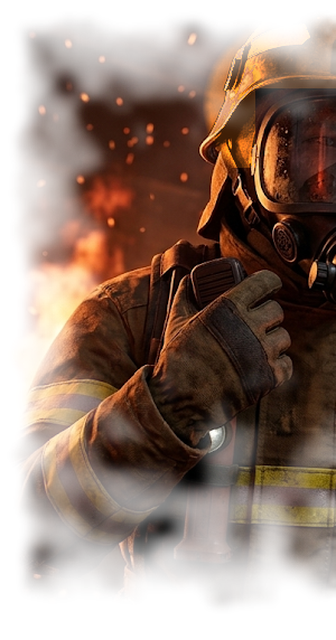
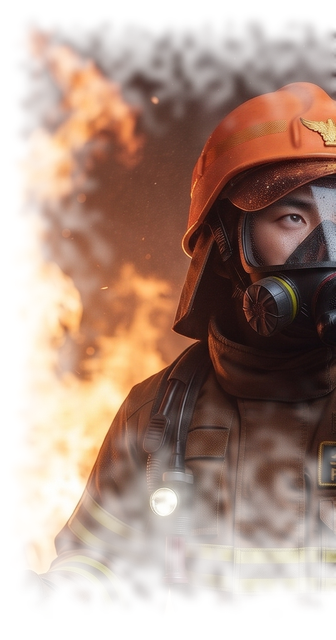
구조대 무전 그림을 사용자 제공 구조대원 그림으로 바꿈
무전 장면의 말하는 사람 그림(crew_rescue)과 조장의 판단 장면 얼굴 반쪽(half_rescue).
다른 대원 그림과 같은 방식(가장자리 먹물 번짐)으로 만들고, 만드는 도구에 rescue 모드를 더했다.

diff --git a/tools/prep_radio_art.py b/tools/prep_radio_art.py
@@ -4,6 +4,9 @@
 #   art/portraits/crew_command.png        — 현장지휘관 (지휘관이 거는 무전)
 #   art/portraits/half_fire·rescue·ems.png — 조장의 판단 장면: 얼굴의 반쪽만 (프로스트펑크 독백 방식, 사용자 예시 그림)
 #   art/ui/ink_blot.png — 가운데가 불투명하고 가장자리가 번진 검은 얼룩 (프로스트펑크 사건 창 방식)
+# 구조대원 그림만 따로 (2026-11-25 사용자 제공 '구조대원.png' — 주황 헬멧에 무전기를 든 모습):
+#   python tools/prep_radio_art.py rescue <구조대원 그림> <출력 폴더 art>
+#   art/portraits/crew_rescue.png · half_rescue.png 를 그 그림으로 바꾼다 (헬멧이 이미 주황이라 물들이지 않는다)
 # 필요: pillow, numpy
 import os
 import sys
@@ -19,6 +22,9 @@ CREW_HELMET = (232, 0, 468, 150)
 # 헬멧 색 (data/art.json helmet_color, 2026-11-11 사용자 결정). None = 그림 그대로(검정)
 KINDS = {"fire": None, "rescue": (255, 122, 26), "ems": (238, 238, 238)}
 SIZE = 640
+# 구조대원 그림(2048×2048)에서 쓸 영역 (다른 대원 그림과 같은 가로세로 비)과 얼굴 가운데 세로선
+RESCUE_BOX = (250, 0, 1950, 1410)
+RESCUE_FACE_X = 1200
 
 
 def ink_mask(w: int, h: int, seed: int, cut_right: bool = False) -> np.ndarray:
@@ -99,6 +105,18 @@ def portraits(crew_src: str, cmd_src: str, out_dir: str) -> None:
     save(half, ink_mask(half.shape[1], half.shape[0], 37, True), os.path.join(out_dir, "portraits", "half_command.png"), SIZE)
 
 
+def rescue_portrait(src: str, out_dir: str) -> None:
+    """구조대원 그림 한 장으로 무전 장면 그림과 판단 장면의 얼굴 반쪽을 만든다 (번짐 무늬는 다른 대원 그림과 같은 씨앗)"""
+    a = np.array(Image.open(src).convert("RGB")).astype(np.float32)
+    x0, y0, x1, y1 = RESCUE_BOX
+    part = a[y0:y1, x0:x1]
+    save(part, ink_mask(part.shape[1], part.shape[0], 11), os.path.join(out_dir, "portraits", "crew_rescue.png"), SIZE)
+    # 반쪽 그림의 가로세로 비는 다른 대원 그림과 같게 (300 : 572)
+    half_w = round((y1 - y0) * 300.0 / 572.0)
+    half = a[y0:y1, max(0, RESCUE_FACE_X - half_w):RESCUE_FACE_X]
+    save(half, ink_mask(half.shape[1], half.shape[0], 23, True), os.path.join(out_dir, "portraits", "half_rescue.png"), SIZE)
+
+
 def ink_blot(out_dir: str, w: int = 1400, h: int = 760, seed: int = 7) -> None:
     rng = np.random.default_rng(seed)
     yy, xx = np.mgrid[0:h, 0:w].astype(np.float32)
@@ -148,5 +166,8 @@ def ink_blot(out_dir: str, w: int = 1400, h: int = 760, seed: int = 7) -> None:
 
 
 if __name__ == "__main__":
-    portraits(sys.argv[1], sys.argv[2], sys.argv[3])
-    ink_blot(sys.argv[3])
+    if sys.argv[1] == "rescue":
+        rescue_portrait(sys.argv[2], sys.argv[3])
+    else:
+        portraits(sys.argv[1], sys.argv[2], sys.argv[3])
+        ink_blot(sys.argv[3])

diff --git a/docs/decisions.md b/docs/decisions.md
@@ -242,3 +242,4 @@
 | 2026-11-25 | 사용자 결정 (추천안 ①~④, ③은 가) | 열기에 막힌 철수 | ① 호스를 거두며 나오다 열기에 막히면 수관을 그 자리에 놓고 회수를 멈춘다 (긴급 철수와 같은 처리, 무전 "열기로 호스 회수 중단") ② 물러날 곳은 뜨거운 칸(위험 상한 이상)을 밟지 않고 닿는 식은 칸에서 고르고, 없으면 닿는 곳 중 뚜렷이 덜 뜨거운 칸(retreat_cooler_ratio 0.5)에서 버틴다. 한 걸음도 못 떼는데 선 칸이 위험하면 예전처럼 열기를 뚫고 나간다 ③ 철수 지시를 기억했다가(SafetySystem.withdrawing) 길의 모든 칸이 위험 상한의 0.8(path_reopen_heat_ratio) 아래로 식으면 스스로 다시 나오며 "퇴로 확보, 철수 재개"를 보고한다. 처음 가려던 곳이 막혀 있고 다른 열린 출구가 식어 있으면 그리로 나온다. 새 지시(이동·임무·층 이동·방수)를 받으면 잊는다 ④ 놓인 관창으로 가다(교체 뒤 재진입·교대조 인수) 열기에 막히면 수관을 놓아 두고 "화염·열기로 관창 쪽 진입 불가 — 물러나 대기, 지시 바람"을 보고한다 — 다시 시도하지 않는다 | 튜토리얼 자동 진행에서 철수하던 구조 분대가 쓰러졌다: 호스 회수가 1초마다 불난 거실 쪽으로 다시 길을 잡아 물러나지 못했고, 물러날 곳은 걸음 수만 보고 불 건너 현관 밖을 골라 매 틱 막혔고(뒤쪽 복도·방에 식은 칸이 200칸 넘게 있었다), 180초 뒤 회수를 그만두면서 철수 지시도 잊었다. 지휘관이 내린 철수는 길이 열리면 이어지는 것이 맞고(Door Kickers·EMERGENCY 의 명령 큐와 같다), 놓인 관창으로 다시 들어가는 것은 진입이므로 지휘관이 정한다 |
 | 2026-11-25 | 사용자 보고 → 승인 | 화면을 바꿔도 대원 방향·자리가 같게 | 대원 그림이 보는 방향 기억을 화면 겹(FloorLayer)마다 두지 않고 입체 화면(IsoView)의 한 사전을 모든 겹이 같이 쓴다. 걷는 대원·지휘관의 방향은 어느 겹이 그리든·그 층이 보이든 상관없이 IsoView 가 매 프레임 적는다 | 외부 화면은 지상층 겹이, 내부 화면은 색 겹이 대원을 그리는데 방향 기억이 겹마다 따로였고 그 겹이 그리는 동안 걸은 것만 적었다 — 내부 화면으로 들어가면 서 있던 대원이 모두 기본 방향으로 돌아섰고, 내부 화면을 보는 동안 걸은 대원은 외부 화면에서 옛 방향이었다. 조장 방향을 기준으로 서는 조원(호스 끼고 걷기 2번·운반·잔불 정리)은 자리까지 달라졌다 |
 | 2026-11-25 | 사용자 결정 (추천안 가) | 외부 ↔ 내부 화면을 오갈 때 카메라 (2026-11-14 '내부 화면의 화면 맞춤'을 대체) | 배율·위치를 그대로 둔다 — 같은 자리에서 벽만 걷어 낸 것처럼. 위층은 외부 화면에서는 외벽의 그 층 높이에, 내부 화면에서는 땅 높이에 그리므로 그만큼만 카메라를 옮겨 그 층이 화면 제자리에 있게 한다. 화면에 맞추는 것은 층 수 단추(1·2·3개 층)를 누를 때만. 내부 화면 안에서 층을 바꿀 때는 전과 같다(배율 그대로, 그 층으로 이동). 내부 화면에서 외부 최소 배율(0.5)보다 더 축소한 채 나오면 0.5로 맞춘다 | 사용자: 오갈 때 줌이 달라지지 않고 고정되면 좋겠다. 전에는 들어갈 때 고른 층에 꽉 차게 맞추고 나올 때 외부 카메라를 되돌려, 오갈 때마다 배율이 바뀌어 보던 대원·차량을 놓쳤다. 심즈·XCOM·Door Kickers 도 벽을 걷거나 층을 바꿀 때 카메라는 그대로이고 확대는 휠로만 한다 |
+| 2026-11-25 | 사용자 지시 | 구조대 무전 그림 | 사용자가 넣은 '구조대원.png'(주황 헬멧에 무전기를 든 모습)로 구조대의 말하는 사람 그림(crew_rescue)과 조장의 판단 장면 얼굴 반쪽(half_rescue)을 바꿈. 다른 대원 그림과 같은 방식(가장자리 먹물 번짐, 같은 크기·비율). 헬멧이 이미 주황이라 물들이지 않는다. 분대 정보창의 작은 그림도 같은 파일을 쓰므로 함께 바뀐다 | 전에는 진압대원 그림의 헬멧만 주황으로 물들인 것이었다 |

diff --git a/docs/progress.md b/docs/progress.md
@@ -162,3 +162,4 @@
 | 2026-11-25 | 열기에 막힌 철수 (튜토리얼에서 철수하던 구조 분대가 쓰러지던 것) | scripts/simulation/crew_condition_system.gd(_cool_cell·_search_cool·_cool_path·route_clear·way_reopened·note_blocked·_settled, _retreat 다시 찾기 간격), scripts/simulation/suppression/water_system.gd(leave_for_heat, cancel_fetch 제한 시간 초기화), scripts/command/safety_system.gd(withdrawing·step_withdrawing·_way_out·forget_return), scripts/simulation/sim_world.gd(_on_heat_stop·_has_other_duty), scripts/units/unit_system.gd(route_along), scripts/command/command_system.gd·tactical_system.gd·move_command.gd, scripts/evaluation/sim_event_log.gd(hose_left_heat·withdraw_resume), data/units/firefighter.json(retreat_cooler_ratio·path_reopen_heat_ratio), tests/test_withdraw_heat.gd(새 6), tests/ui_tour.gd | 새 6 + 관련 8개 파일 58 통과(test_crew_and_vision 11·hose_leave 9·crew_trapped 3·safety 8·tactical 6·mission_done 9·interior 6·command 6). 튜토리얼 자동 진행 3회(현장 25분): 쓰러짐 0, 스크립트 오류 0 — 세 번 모두 구조1이 호스를 거두며 철수하는 흐름은 나오지 않았고(2층 계단실에 끝까지 서 있는 흐름), 대신 진압1이 공기호흡기 교체로 나오다 열기에 막혀 복도로 물러나 고립 보고 뒤 끝까지 대기했다(거실 불이 25분까지 안 꺼짐). 원인: ① 호스 회수가 1초마다 불 쪽으로 다시 길을 잡음 ② 물러날 곳을 걸음 수만 보고 골라 불 건너 현관 밖을 고름 ③ 180초 뒤 회수를 그만두며 철수도 잊음. 남은 것: 전체 테스트는 이 PC에서 아직 안 돌림(사용자: 나중에) · 구조1이 2층 계단실에 끝까지 서 있는 흐름(호스 길이 한도로 짐작, 확인 안 함) · 진압1이 1층 거실을 900초 방수해도 못 끄는 것 · 게임 화면에서 직접 확인 |
 | 2026-11-25 | 외부 ↔ 내부 화면을 오가면 대원 방향·자리가 달라지던 것 | scripts/ui/iso_view.gd(_facing·update_facing), scripts/ui/building/floor_layer.gd(share_facing), tests/test_view_facing.gd(새 3) | 새 3 + test_crew_draw_spots 4·door_layout 2·door_stack 11·hose_draw 17 통과, ui_smoke(창) 통과 160·실패 0·스크립트 오류 0. 고치기 전 재현: 13명 중 외부→내부 13명, 내부에서 걸은 뒤→외부 13명이 다른 방향 / 고친 뒤 0명. 남은 것: 게임 화면에서 직접 확인 · 겹마다 따로 가진 다른 기억(_fire_rooms 마지막으로 불을 본 방 등)은 살펴보지 않음 |
 | 2026-11-25 | 외부 ↔ 내부 화면을 오갈 때 카메라 고정 | scripts/world.gd(_fit_view_change·_shell_shift, _exterior_cam 지움), tests/ui_smoke.gd(확인 5개) | ui_smoke(창) 통과 164·실패 0·스크립트 오류 0, test_split_view 5·test_cutaway 11 통과. 1층: 배율·위치 그대로 / 2층: 배율 그대로, 외벽의 층 높이만큼만 카메라가 내려가 그 층이 화면 제자리 / 층 수 단추를 누르면 그때 맞춤. 남은 것: 게임 화면에서 직접 확인 · 고른 층이 왼쪽 정보창에 가려질 수 있음(가려지면 층 수 단추나 화면 이동으로) · 고층 건물(15·25층)에서 위층을 눌러 들어갈 때는 자동 점검하지 않음 |
+| 2026-11-25 | 구조대 무전 그림을 사용자 제공 구조대원 그림으로 | art/portraits/crew_rescue.png·half_rescue.png, tools/prep_radio_art.py(rescue 모드·RESCUE_BOX·RESCUE_FACE_X), data/art.json(출처 글) | 게임에서 구조1의 무전 장면(진입 허가 요청)과 조장의 판단 장면(롤오버 징후)을 찍어 확인 — 두 장면 모두 새 그림. 원본 '구조대원.png'은 저장소 맨 위에 두고 커밋하지 않음('소방관.png'과 같게). 남은 것: 사용자 확인 (그림에서 쓰는 범위·얼굴 반쪽 자르는 선) |
